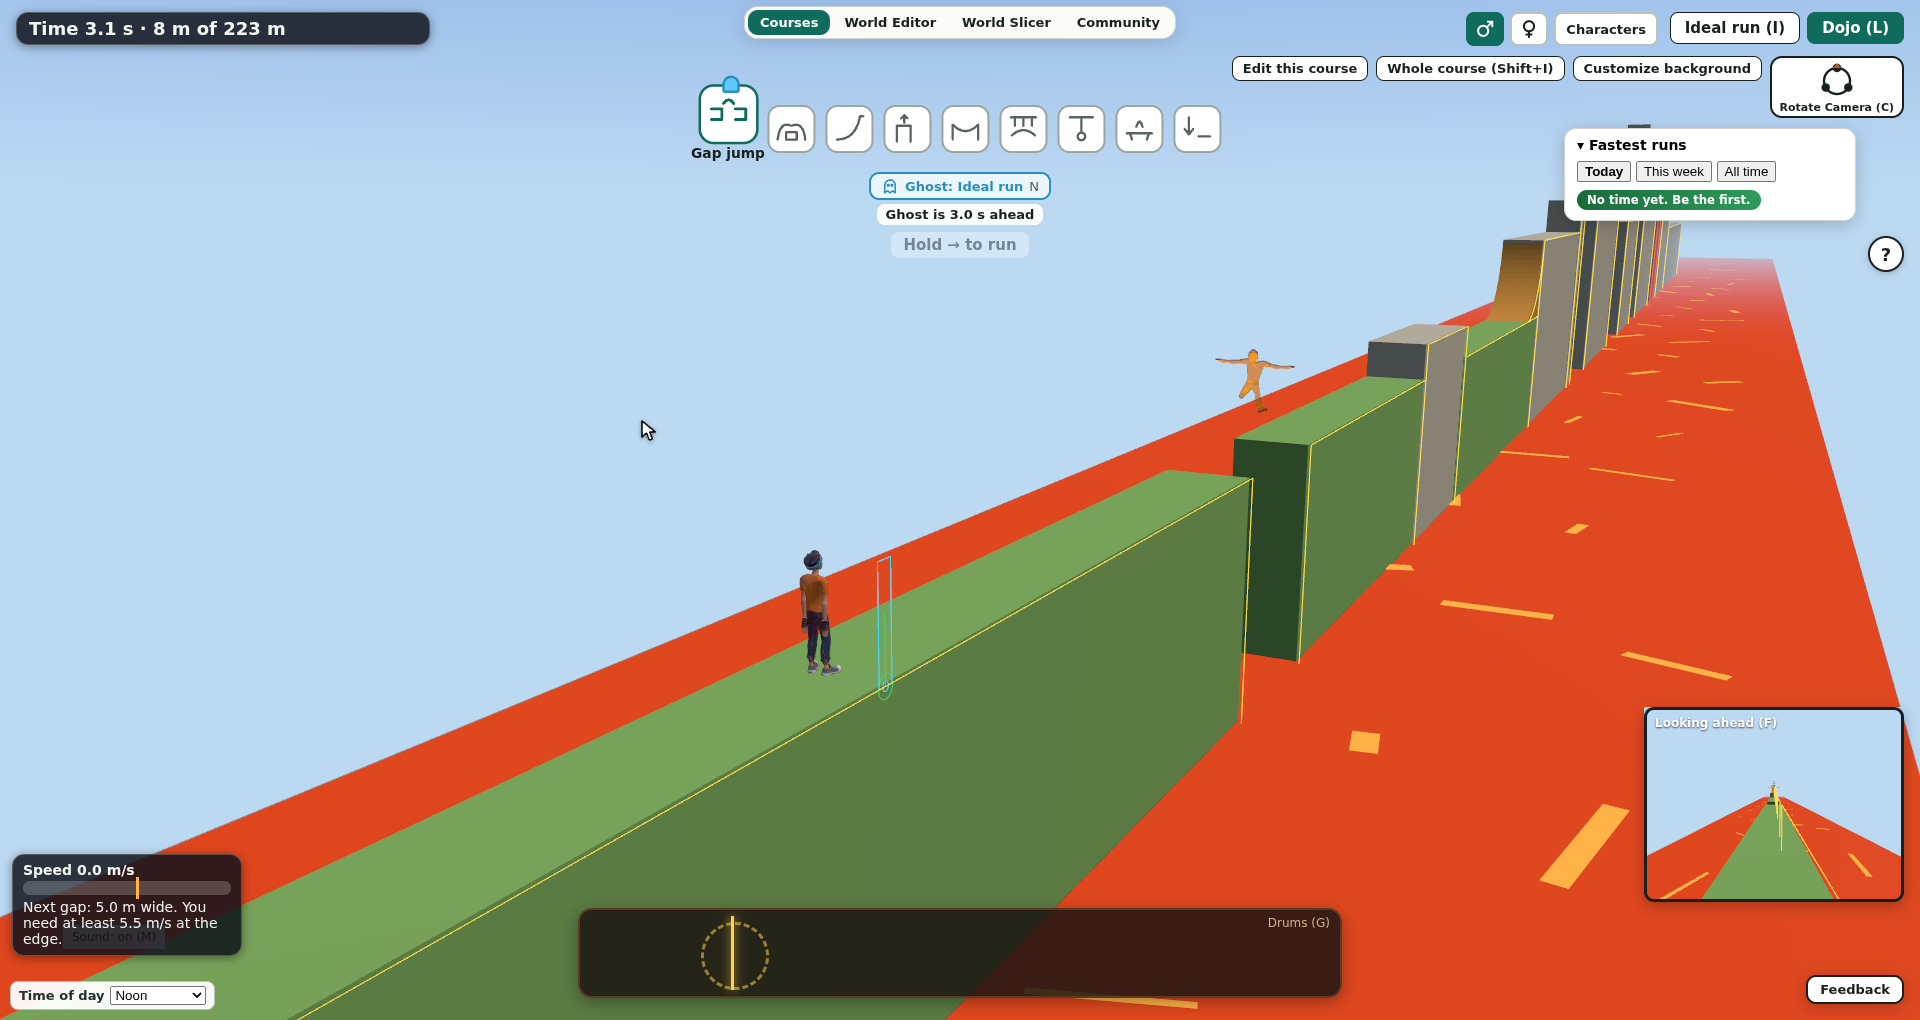
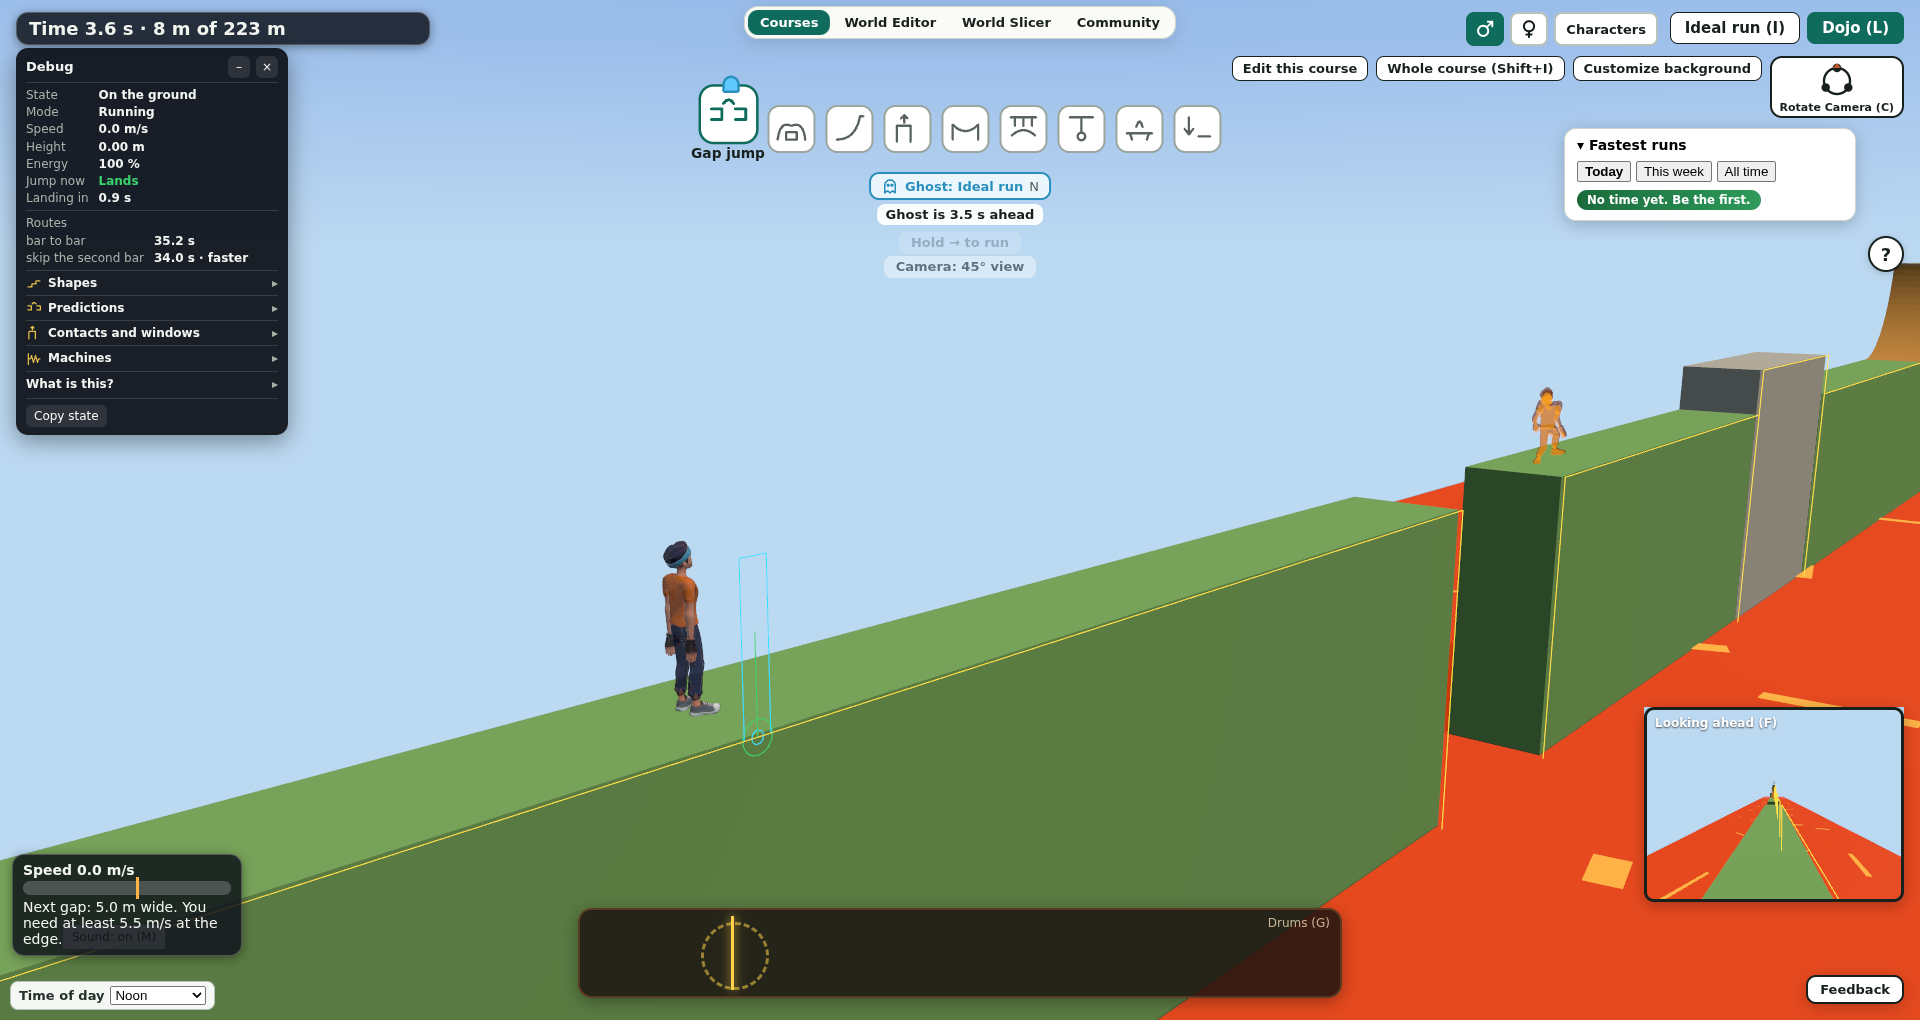
README Course tile 1: retaken with debug mode on (B key pressed in the script), alt text and asset row say so
Part of CC-133

diff --git a/docs/ASSETS.md b/docs/ASSETS.md
@@ -954,7 +954,7 @@ Photo dots on the Slicer map (CC-133): no new files; the dots and cones are draw
 | `README_MEDIA/community-1-explore.png`, `community-2-mark-yourself.png`, `community-3-making.png`, `community-4-done.png` | README "Community" screens: Explore (1920 x 1020), Mark it yourself on the park03 sample photo (1920 x 1020), the Making step (1905 x 986) and the finished Platform piece (1920 x 983); 3 and 4 were taken by hand (the 3D lift sits behind Cloudflare Turnstile) and are committed byte for byte, not resized | 2026-11-04 | `scripts/readme-shot-community.mjs` for 1 and 2 (our code; the preview site in headless Chromium); 3 and 4 by hand | None | Ours (our pages and pieces); the example photos shown are credited on the cards: Neoclassicism Enthusiast (CC0), Alexis Jazz (CC BY 4.0), Ajznponar (CC0); the park03 sample photo and the lifted shape are listed in their own rows |
 | `docs/evidence/cc-133-readme-run/training-run.gif` | the README clip: the ideal run clearing the whole Training course, sped up 2.5 times (about 270 KB, 400 px wide, 6 frames a second) | 2026-11-04 | `scripts/film.mjs` on the stepped clock (`?course=/assets/demo/training.course.json&bot=ideal&film=clean`, 640x360, 10 fps, 345 frames) on a Vultr VM, then ffmpeg palette GIF; the source mp4 is in `../conquercourse-assets/readme-run/` | None | Ours; no third-party material |
 | `docs/evidence/cc-133-readme-run/link-landing.png` | screenshot at 1280 px of the README play link landing straight in the Training course, ready to run (evidence only) | 2026-11-04 | headless browser on a Vultr VM | None | Ours |
-| `README_MEDIA/course-1-training-run.png` | README screen picture (168 KB, 1920 x 1020): the Training run, camera behind the runner | 2026-11-04 | `scripts/readme-shot-course.mjs`, headless Chromium (software GL) on the laptop | None | Ours, a screen of our game. Rookie A and the course pieces are ours. |
+| `README_MEDIA/course-1-training-run.png` | README screen picture (168 KB, 1920 x 1020): the Training run, camera behind the runner, debug mode on (B key) | 2026-11-04 | `scripts/readme-shot-course.mjs`, headless Chromium (software GL) on the laptop | None | Ours, a screen of our game. Rookie A and the course pieces are ours. |
 | `README_MEDIA/course-2-end-screen.png` | README screen picture (135 KB, 1920 x 1020): the end-of-run report of a cleared run (a win) | 2026-11-04 | `scripts/readme-shot-course.mjs`, headless Chromium (software GL) on the laptop | None | Ours, a screen of our game. Ours. |
 | `README_MEDIA/course-3-courses-page.png` | README screen picture (392 KB, 1920 x 1020): the Courses page | 2026-11-04 | `scripts/readme-shot-course.mjs`, headless Chromium (software GL) on the laptop | None | Ours, a screen of our game. Place thumbnails show map data (c) OpenStreetMap contributors, ODbL 1.0; photos on cards are the shipped ones in their own rows. |
 | `README_MEDIA/course-4-parts-all.png` | README screen picture (308 KB, 1920 x 1020): Parts, All parts tab | 2026-11-04 | `scripts/readme-shot-course.mjs`, headless Chromium (software GL) on the laptop | None | Ours, a screen of our game. Part pictures are ours. |

diff --git a/README.md b/README.md
@@ -33,7 +33,7 @@ https://github.com/user-attachments/assets/891a2fe2-3eff-49f7-8459-aeff440a24d9
 
 <table>
 <tr>
-<td><a href="README_MEDIA/course-1-training-run.png"><img src="README_MEDIA/course-1-training-run.png" width="480" alt="The Training run: the runner on the start block, the ghost ahead and the Fastest runs card at the top right"></a></td>
+<td><a href="README_MEDIA/course-1-training-run.png"><img src="README_MEDIA/course-1-training-run.png" width="480" alt="The Training run: the runner on the start block, the ghost ahead and the Fastest runs card at the top right, and debug mode on (B): the Debug panel at the left, yellow outlines on the shapes and the landing marker"></a></td>
 <td><a href="README_MEDIA/course-2-end-screen.png"><img src="README_MEDIA/course-2-end-screen.png" width="480" alt="The end of a run: the time, your path as a chart, and what you learned"></a></td>
 </tr>
 <tr>
